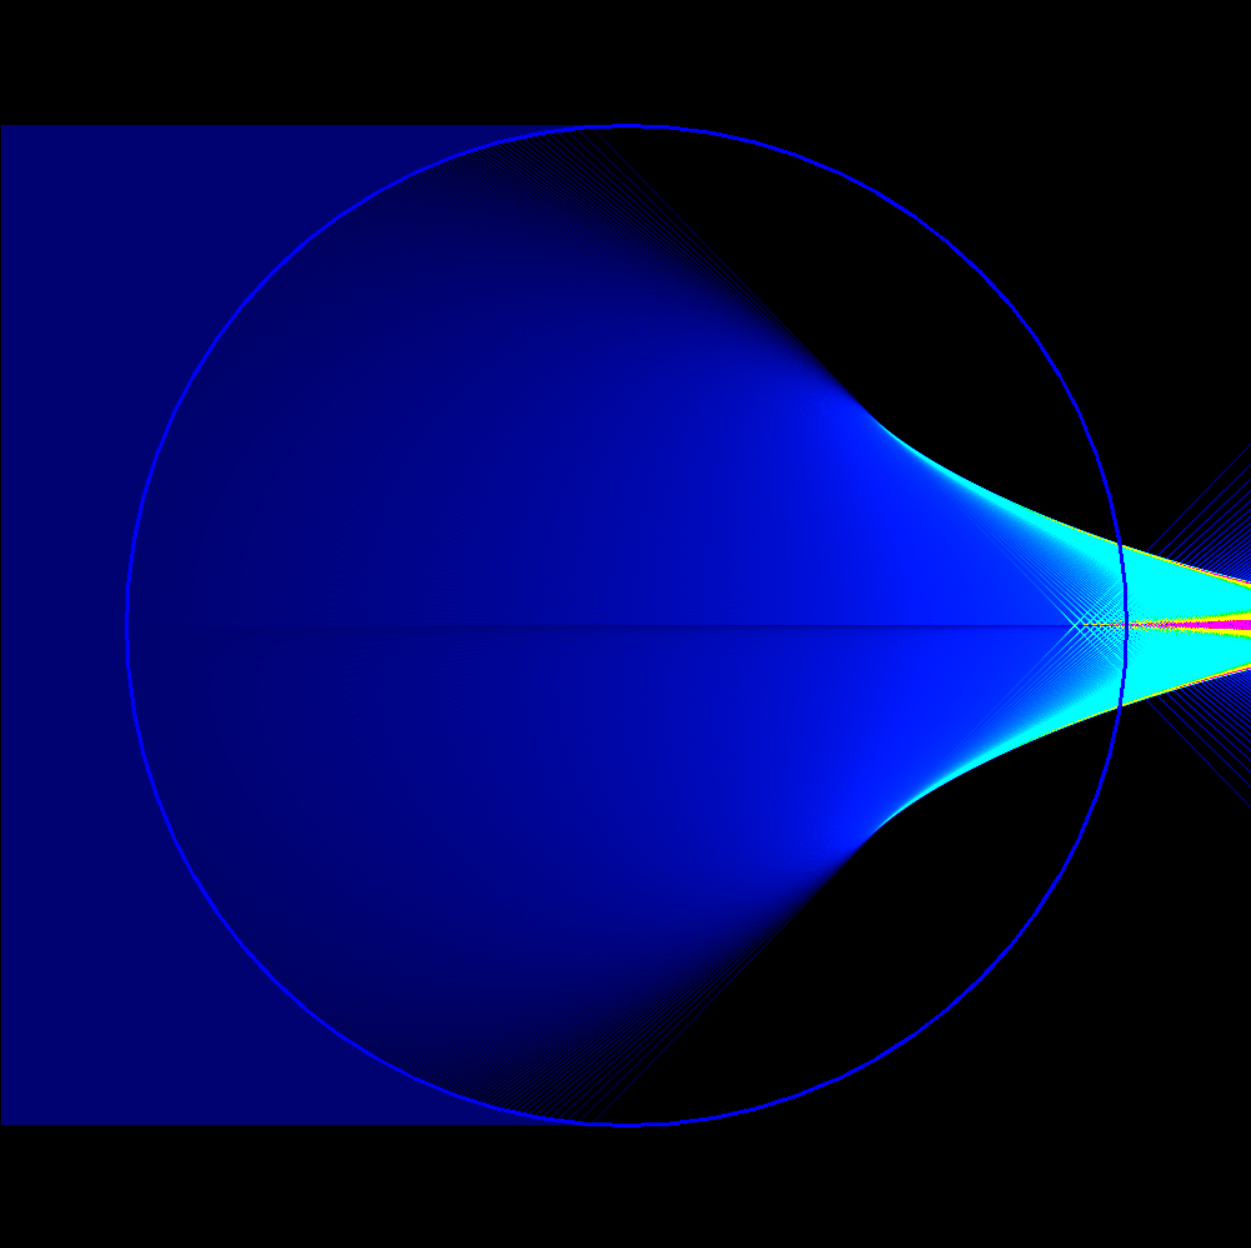
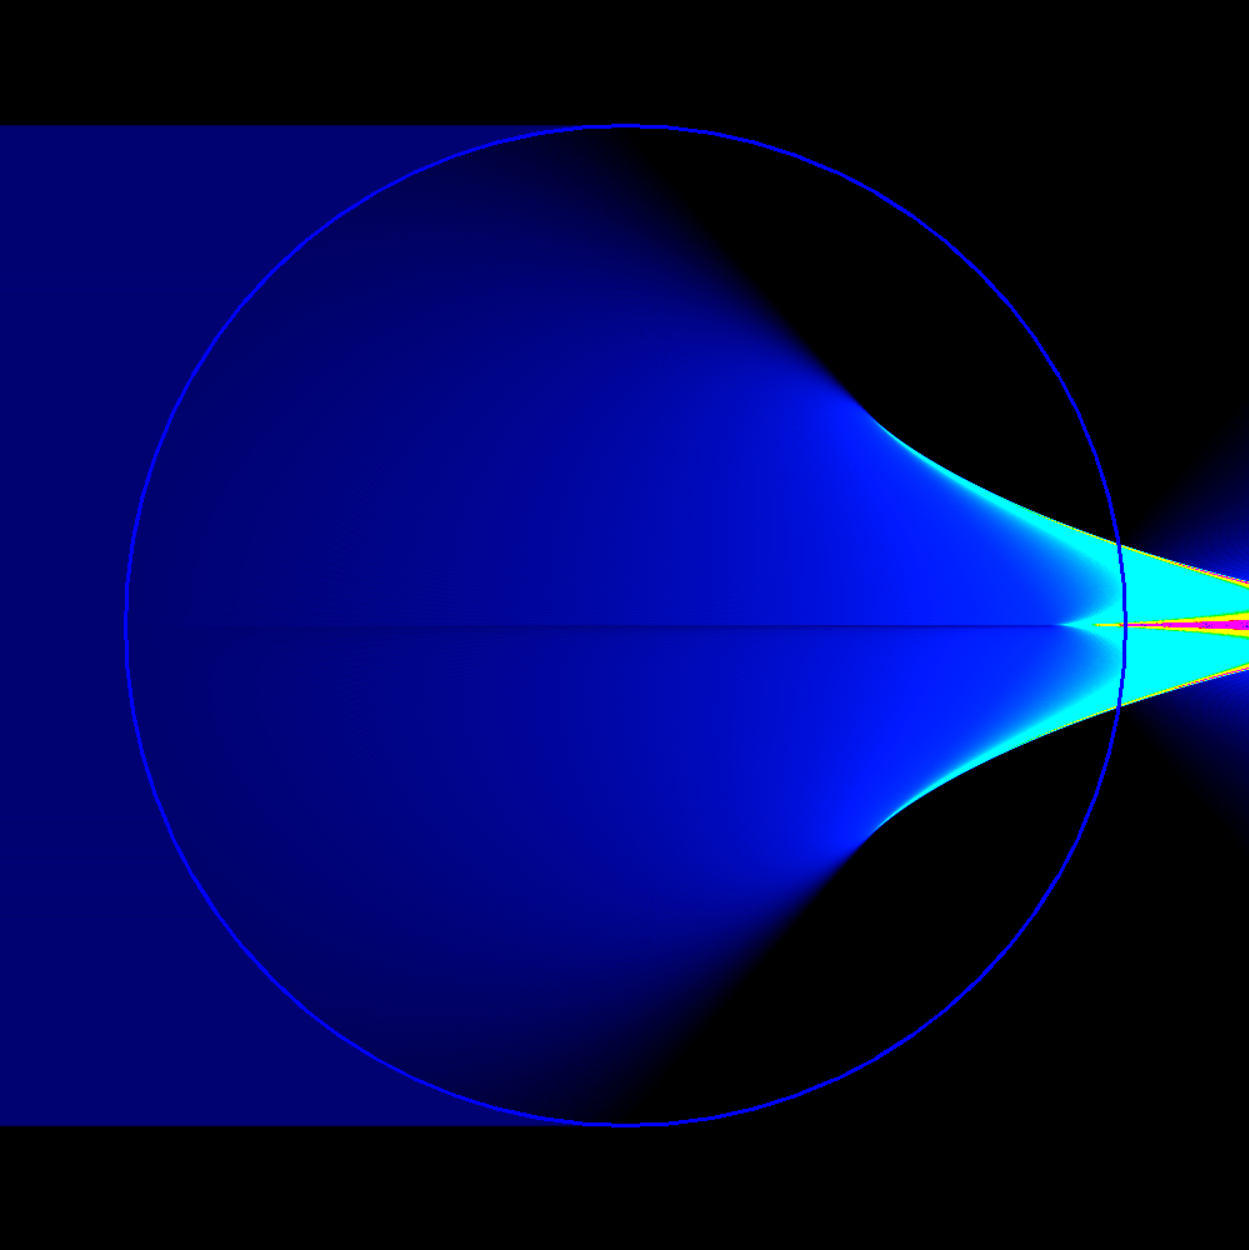
caustics: don't skip rays where abs(h) is close to 1

diff --git a/caustics/caustics.py b/caustics/caustics.py
@@ -121,10 +121,12 @@ def CreateImage(resolution, limit):
 
         line_end = center + numpy.array([-cos_gammai, sin_gammai]) * radius
 
+        line_brightness = sqrt(1 - h * h) * brightness
+
         def output_additive(p, coverage):
             pi = (trunc(p[1]), trunc(p[0]))
             if (pi[0] >= 0) and (pi[1] >= 0) and (pi[0] < resolution) and (pi[1] < resolution):
-                src[pi] += numpy.array([0.0, 0.0, 1.0]) * coverage * brightness
+                src[pi] += numpy.array([0.0, 0.0, 1.0]) * coverage * line_brightness
 
         rasterize_line_antialiased(line_start + 0.5, line_end + 0.5, thickness, output_additive)
 
@@ -151,12 +153,12 @@ def CreateImage(resolution, limit):
                 p2c = p - center
                 distance_to_axis = abs(p2c[1])
                 amplification_factor = max( 1, radius * abs(h) / ( distance_to_axis + 0.5 ) ) # we are calculating 3d ball caustics, have to account for that
-                src[pi] += numpy.array([0.0, 0.0, 1.0]) * coverage * brightness * (1 - fresnel_shlick) * amplification_factor
+                src[pi] += numpy.array([0.0, 0.0, 1.0]) * coverage * line_brightness * (1 - fresnel_shlick) * amplification_factor
 
         rasterize_line_antialiased(line_start + 0.5, line_end + 0.5, thickness, output_additive)
 
-    for i in range(-int(radius), int(radius)):
-        h = i / radius
+    for i in range(-int(radius * pi * 0.5), int(radius * pi * 0.5)):
+        h = sin(i / radius)
         if (h > limit): break
         DrawRefractedLine(h, 1, 1.55)
 
